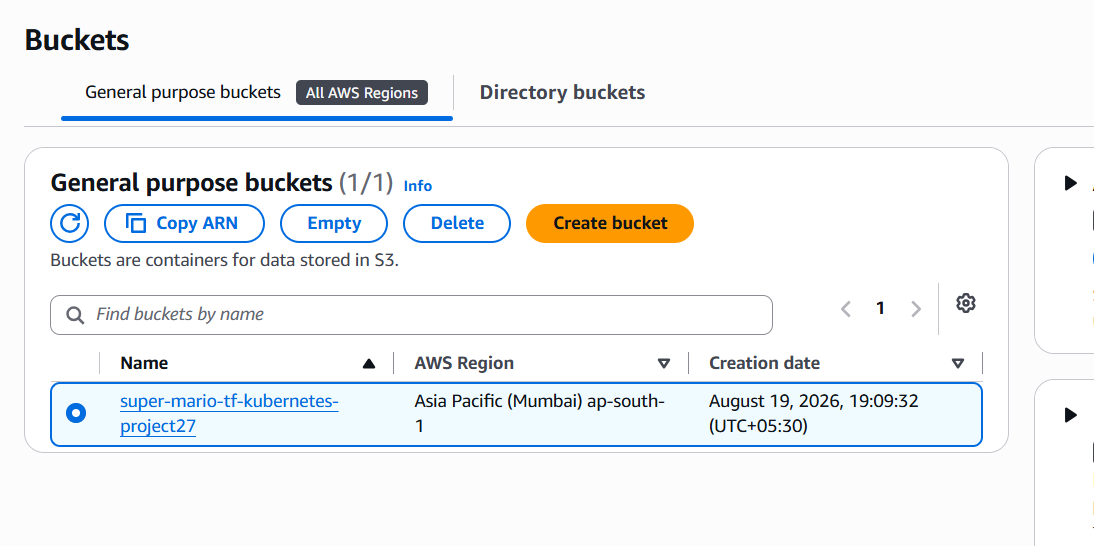
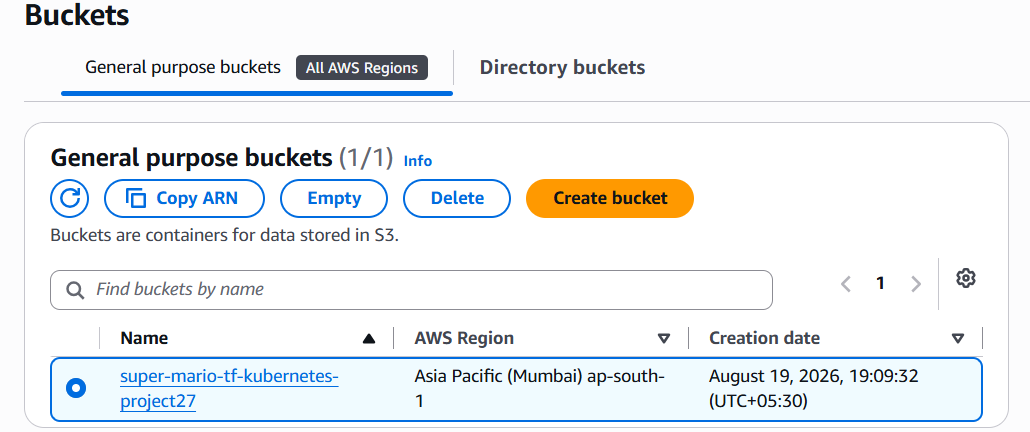
Commit latest

diff --git a/README.md b/README.md
@@ -91,7 +91,7 @@ kubectl version --client
 ````
 ### $\color{red} \textbf {Step 3 → IAM  Role  for  EC2}$
 create role:
-![role](./.Images/IAM_Role_1.png)
+![role](./.Images/IAM_Role_1.png)
 
 ### $\color{red} \textbf {Step 4 →Attach  IAM  role  with your  EC2 }$
 go to EC2 
@@ -114,6 +114,28 @@ cd EKS-TF
 vim backend.tf
 ````
 ![backend tf](./.Images/change_region_backend_file.png)
+
+$\color{blue} \textbf {Configure AWS CLI:}$
+For configuring AWS CLI, you need to have AWS Access Key ID and AWS Secret Access Key. You can create a new IAM user in the AWS Management Console and generate these credentials. Once you have them, run the following command to configure your AWS CLI:
+Enter:
+AWS Access Key ID
+AWS Secret Access Key
+Default region: (e.g., ap-south-1)
+Output format: (json)
+That will create the eks profile.
+````
+aws configure
+````
+````
+aws configure --profile eks
+````
+
+$\color{blue} \textbf {Verify Profile Exists:}$
+`````
+cat ~/.aws/config
+cat ~/.aws/credentials
+`````
+
 
 $\color{blue} \textbf {Create \ Infra:}$
 ````
